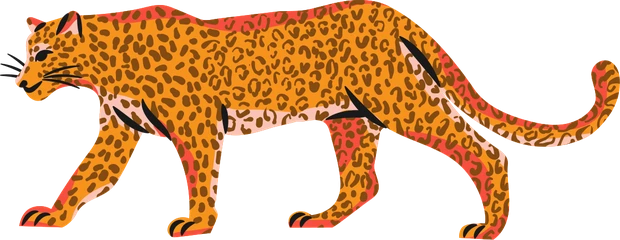
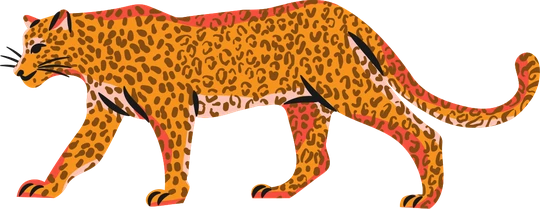
Nova foto da capa: caneca bege, da cintura para cima
Foto no sofá recortada da cintura para cima na moldura redonda, com a
caneca amarela trocada por uma bege lisa. A onça desceu para não cobrir
o "Égua, mana!" da camiseta.

diff --git a/index.html b/index.html
@@ -154,11 +154,11 @@ section{position:relative;padding:clamp(80px,11vw,140px) 0;overflow:hidden}
 /* capa montada com as peças separadas da arte "Nortista": o fundo tem a moldura, a foto,
    a bandeira, as vitórias-régias e a palavra Nortista; a arara e a onça ficam por cima e se mexem */
 .moldura-capa{position:relative;filter:drop-shadow(0 22px 30px rgba(0,0,0,.35))}
-.foto-capa{display:block;width:100%;height:auto;aspect-ratio:1140/1260}
-/* posições em % da imagem de 1140x1260 */
+.foto-capa{display:block;width:100%;height:auto;aspect-ratio:1140/1330}
+/* posições em % da imagem de 1140x1330 */
 .bicho{position:absolute;height:auto;pointer-events:none}
-.arara-capa{left:0;top:2.38%;width:35.09%;animation:arara-voa 5s ease-in-out infinite alternate}
-.onca-capa{left:43.86%;top:80.32%;width:54.39%;transform-origin:50% 100%;animation:onca-anda 10s ease-in-out infinite alternate}
+.arara-capa{left:0;top:2.26%;width:35.09%;animation:arara-voa 5s ease-in-out infinite alternate}
+.onca-capa{left:51.75%;top:84.06%;width:47.37%;transform-origin:50% 100%;animation:onca-anda 10s ease-in-out infinite alternate}
 /* a arara plana subindo e descendo; a onça anda um pouco para a esquerda e volta */
 @keyframes arara-voa{
   0%{transform:translate(0,0) rotate(0deg)}
@@ -529,13 +529,13 @@ section{position:relative;padding:clamp(80px,11vw,140px) 0;overflow:hidden}
     <div class="capa-foto revelar">
       <!--
         FOTO PRINCIPAL em camadas, montada com as peças da arte "Nortista" (PDF original em elementos/original-nortista.pdf, fora do Git):
-        fotos/capa-fundo.webp (moldura, foto, bandeira, vitórias-régias e "Nortista", 1140x1260 px)
+        fotos/capa-fundo.webp (moldura, foto, bandeira, vitórias-régias e "Nortista", 1140x1330 px; foto original em fotos/originais/capa-caneca-sofa.jpg, com a caneca trocada para bege)
         elementos/capa/arara.webp e elementos/capa/onca.webp ficam por cima e se mexem devagar.
       -->
       <div class="moldura-capa">
-        <img class="foto-capa" src="fotos/capa-fundo.webp" alt="Manu Melo com a mão no queixo, batom vermelho e blazer verde-oliva, numa moldura redonda com arara, bandeira do Pará, onça-pintada, vitórias-régias e a palavra Nortista" width="1140" height="1260" fetchpriority="high">
+        <img class="foto-capa" src="fotos/capa-fundo.webp" alt="Manu Melo sentada no sofá, mandando um beijinho e segurando uma caneca bege, de camiseta branca escrita Égua, mana!, numa moldura redonda com arara, bandeira do Pará, onça-pintada, vitórias-régias e a palavra Nortista" width="1140" height="1330" fetchpriority="high">
         <img class="bicho arara-capa" src="elementos/capa/arara.webp" alt="" aria-hidden="true" width="400" height="370">
-        <img class="bicho onca-capa" src="elementos/capa/onca.webp" alt="" aria-hidden="true" width="620" height="240">
+        <img class="bicho onca-capa" src="elementos/capa/onca.webp" alt="" aria-hidden="true" width="540" height="209">
       </div>
     </div>
   </div>
